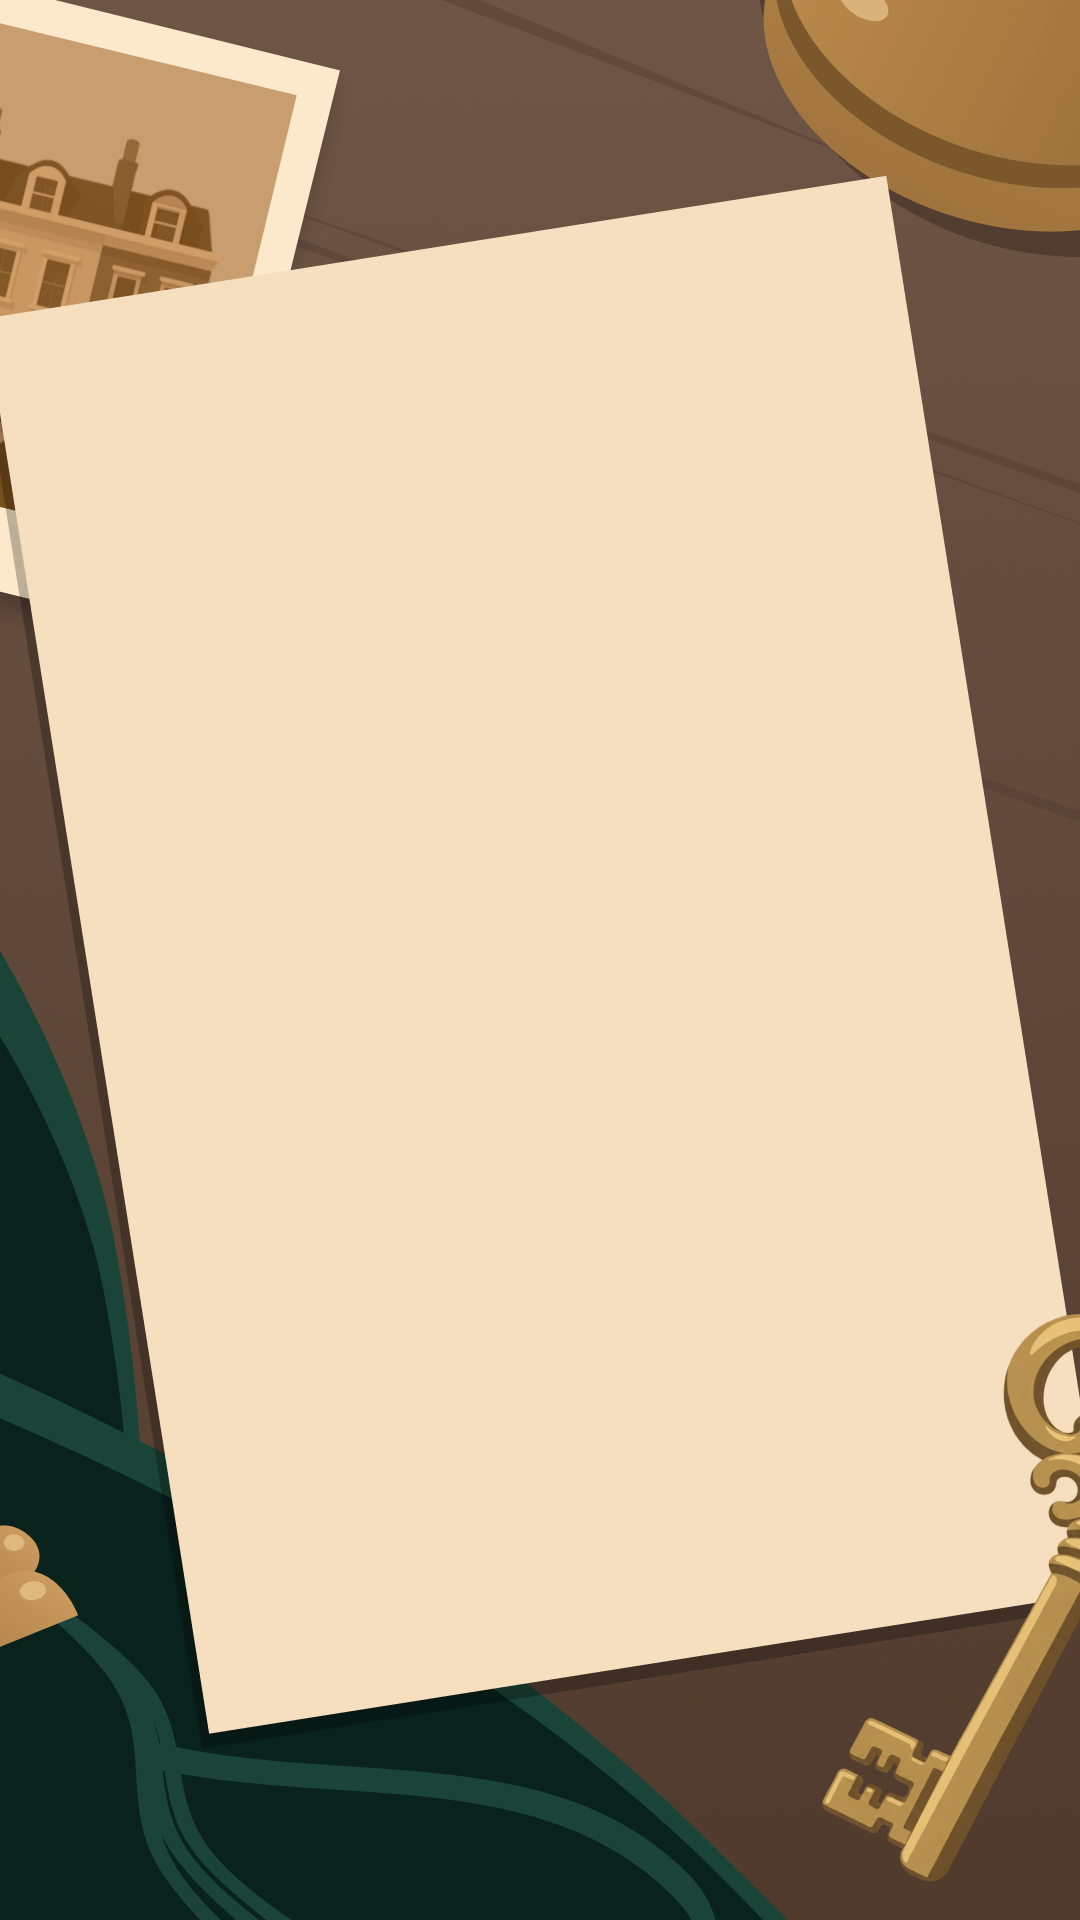
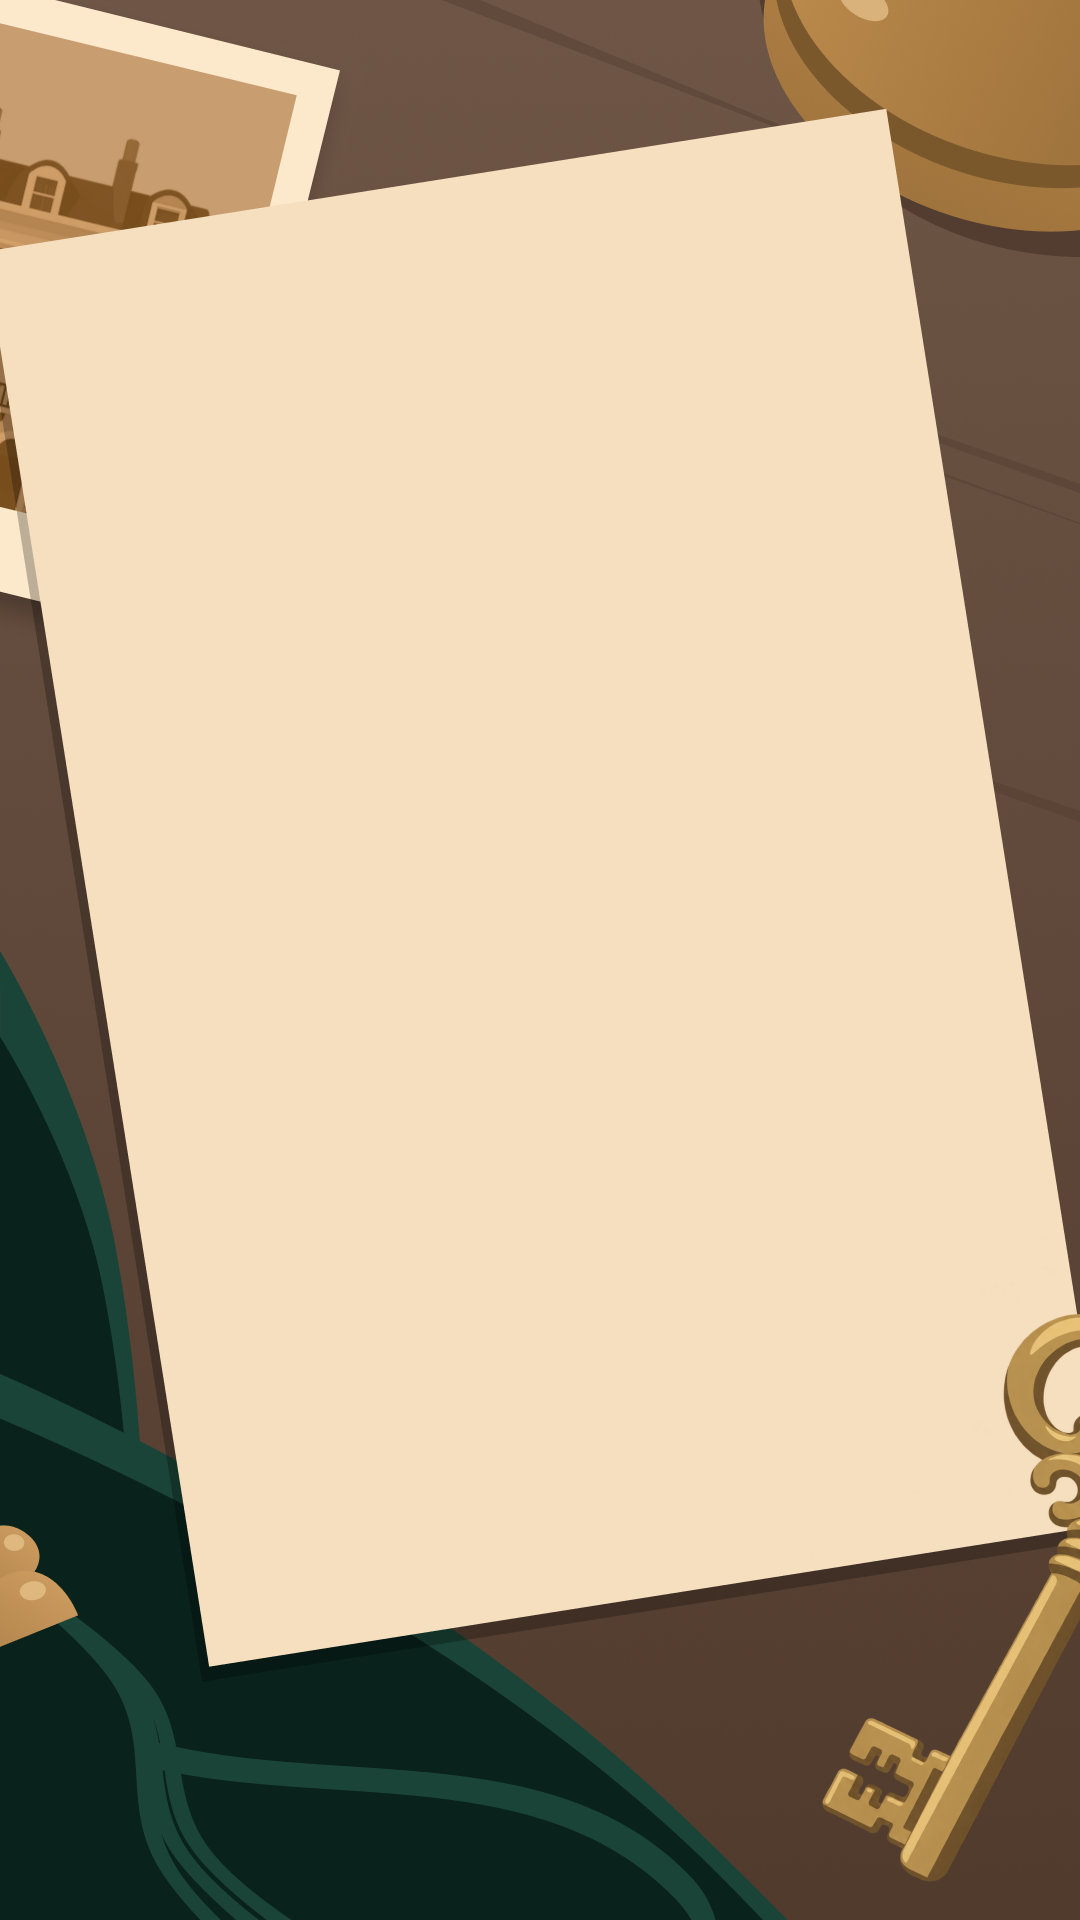
把收據位置調上面一點

diff --git a/guest/index.html b/guest/index.html
@@ -25,7 +25,7 @@
   <link href="https://cdn.jsdelivr.net/npm/bootstrap@5.3.3/dist/css/bootstrap.min.css" rel="stylesheet">
   <link rel="stylesheet" href="https://cdn.jsdelivr.net/npm/bootstrap-icons@1.11.3/font/bootstrap-icons.css">
   <link href="../css/styles.css?v=20251018" rel="stylesheet" />
-  <link href="../css/guest-card.css?v=20261023-10" rel="stylesheet">
+  <link href="../css/guest-card.css?v=20261023-11" rel="stylesheet">
 </head>
 
 <body id="guest-page">

diff --git a/css/guest-card.css b/css/guest-card.css
@@ -677,7 +677,7 @@
 
   /* 收據在整張圖片中的位置 */
   left: 11%;
-  top: 15%;
+  top: 10%;
 
   /* 收據大小 */
   width: 79%;
